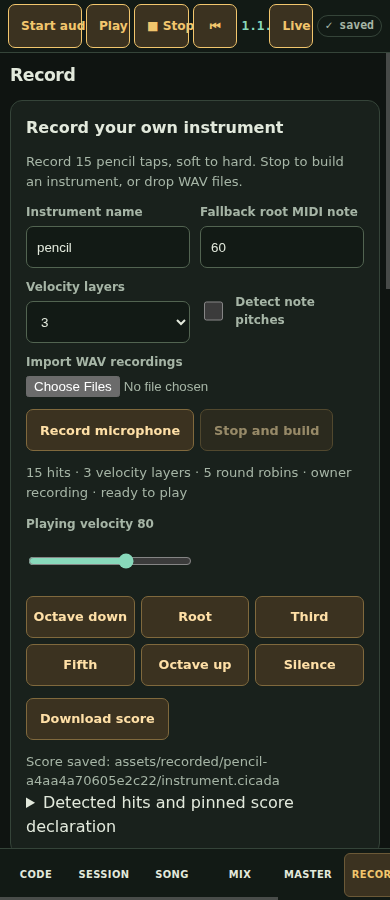
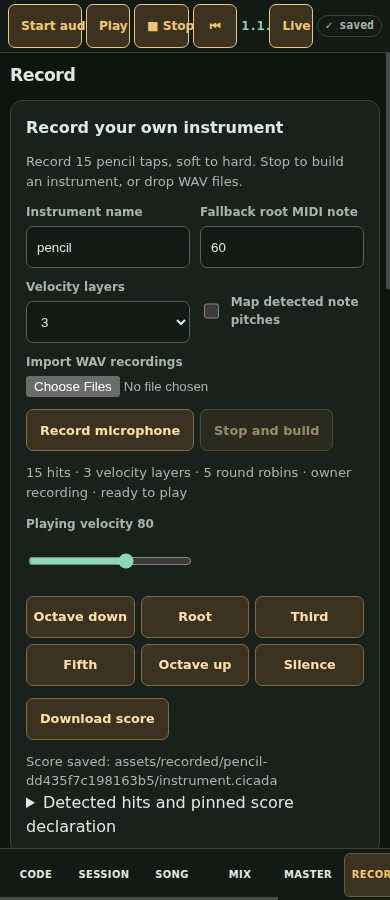
update(recording): refresh screenshots and complete score fixtures
- Complete note-name parsing fixtures with a track, scene, and song to exercise a full score.
- Refresh manual screenshots and format pitch assertions for readability.

Changed region(s): [[0.0923, 0.84, 0.7077, 0.8711], [0.5231, 0.3111, 0.7692, 0.3733], [0.8, 0.3111, 0.9231, 0.3422]]

diff --git a/host/recording/analyze_test.go b/host/recording/analyze_test.go
@@ -122,7 +122,8 @@ func TestPitchAndNotes(t *testing.T) {
 			if err != nil {
 				t.Fatal(err)
 			}
-			options:=DefaultOptions();options.AutoPitch=true
+			options := DefaultOptions()
+			options.AutoPitch = true
 			h, err := Analyze([]Audio{a}, options)
 			if err != nil || len(h) != 1 {
 				t.Fatalf("%dHz %.0f: detected %d hits: %v", rate, frequency, len(h), err)
@@ -131,7 +132,9 @@ func TestPitchAndNotes(t *testing.T) {
 			if math.Abs(cents) > 15 || h[0].Confidence < .8 {
 				t.Fatalf("rate %d frequency %.0f pitch %.1f cents %.1f confidence %.2f", rate, frequency, h[0].PitchHz, cents, h[0].Confidence)
 			}
-			if want:=int(math.Round(69+12*math.Log2(frequency/440)));h[0].Root!=want {t.Fatal("pitched root",h[0].Root,want)}
+			if want := int(math.Round(69 + 12*math.Log2(frequency/440))); h[0].Root != want {
+				t.Fatal("pitched root", h[0].Root, want)
+			}
 		}
 	}
 }

diff --git a/host/recording/score_test.go b/host/recording/score_test.go
@@ -15,7 +15,7 @@ import (
 func TestRecordedRootNamesParseAcrossPitchClasses(t *testing.T) {
 	for root := 12; root <= 95; root++ {
 		name := NoteName(root)
-		source := fmt.Sprintf("cicada 2\nasset a \"a.wav\" { sha256 = \"%s\" format = wav frames = 100 rate = 48000Hz channels = 1 }\nsampler s { asset = a root = %s mode = oneshot voices = 8 }\npattern p { %s }\n", Digest([]byte("a")), name, name)
+		source := fmt.Sprintf("cicada 2\nasset a \"a.wav\" { sha256 = \"%s\" format = wav frames = 100 rate = 48000Hz channels = 1 }\nsampler s { asset = a root = %s mode = oneshot voices = 8 }\ntrack t s {}\npattern p { %s }\nscene main {t=p}\nsong {main}\n", Digest([]byte("a")), name, name)
 		score, ds := notation.Parse([]byte(source))
 		for _, d := range ds {
 			if d.Severity == "error" {
